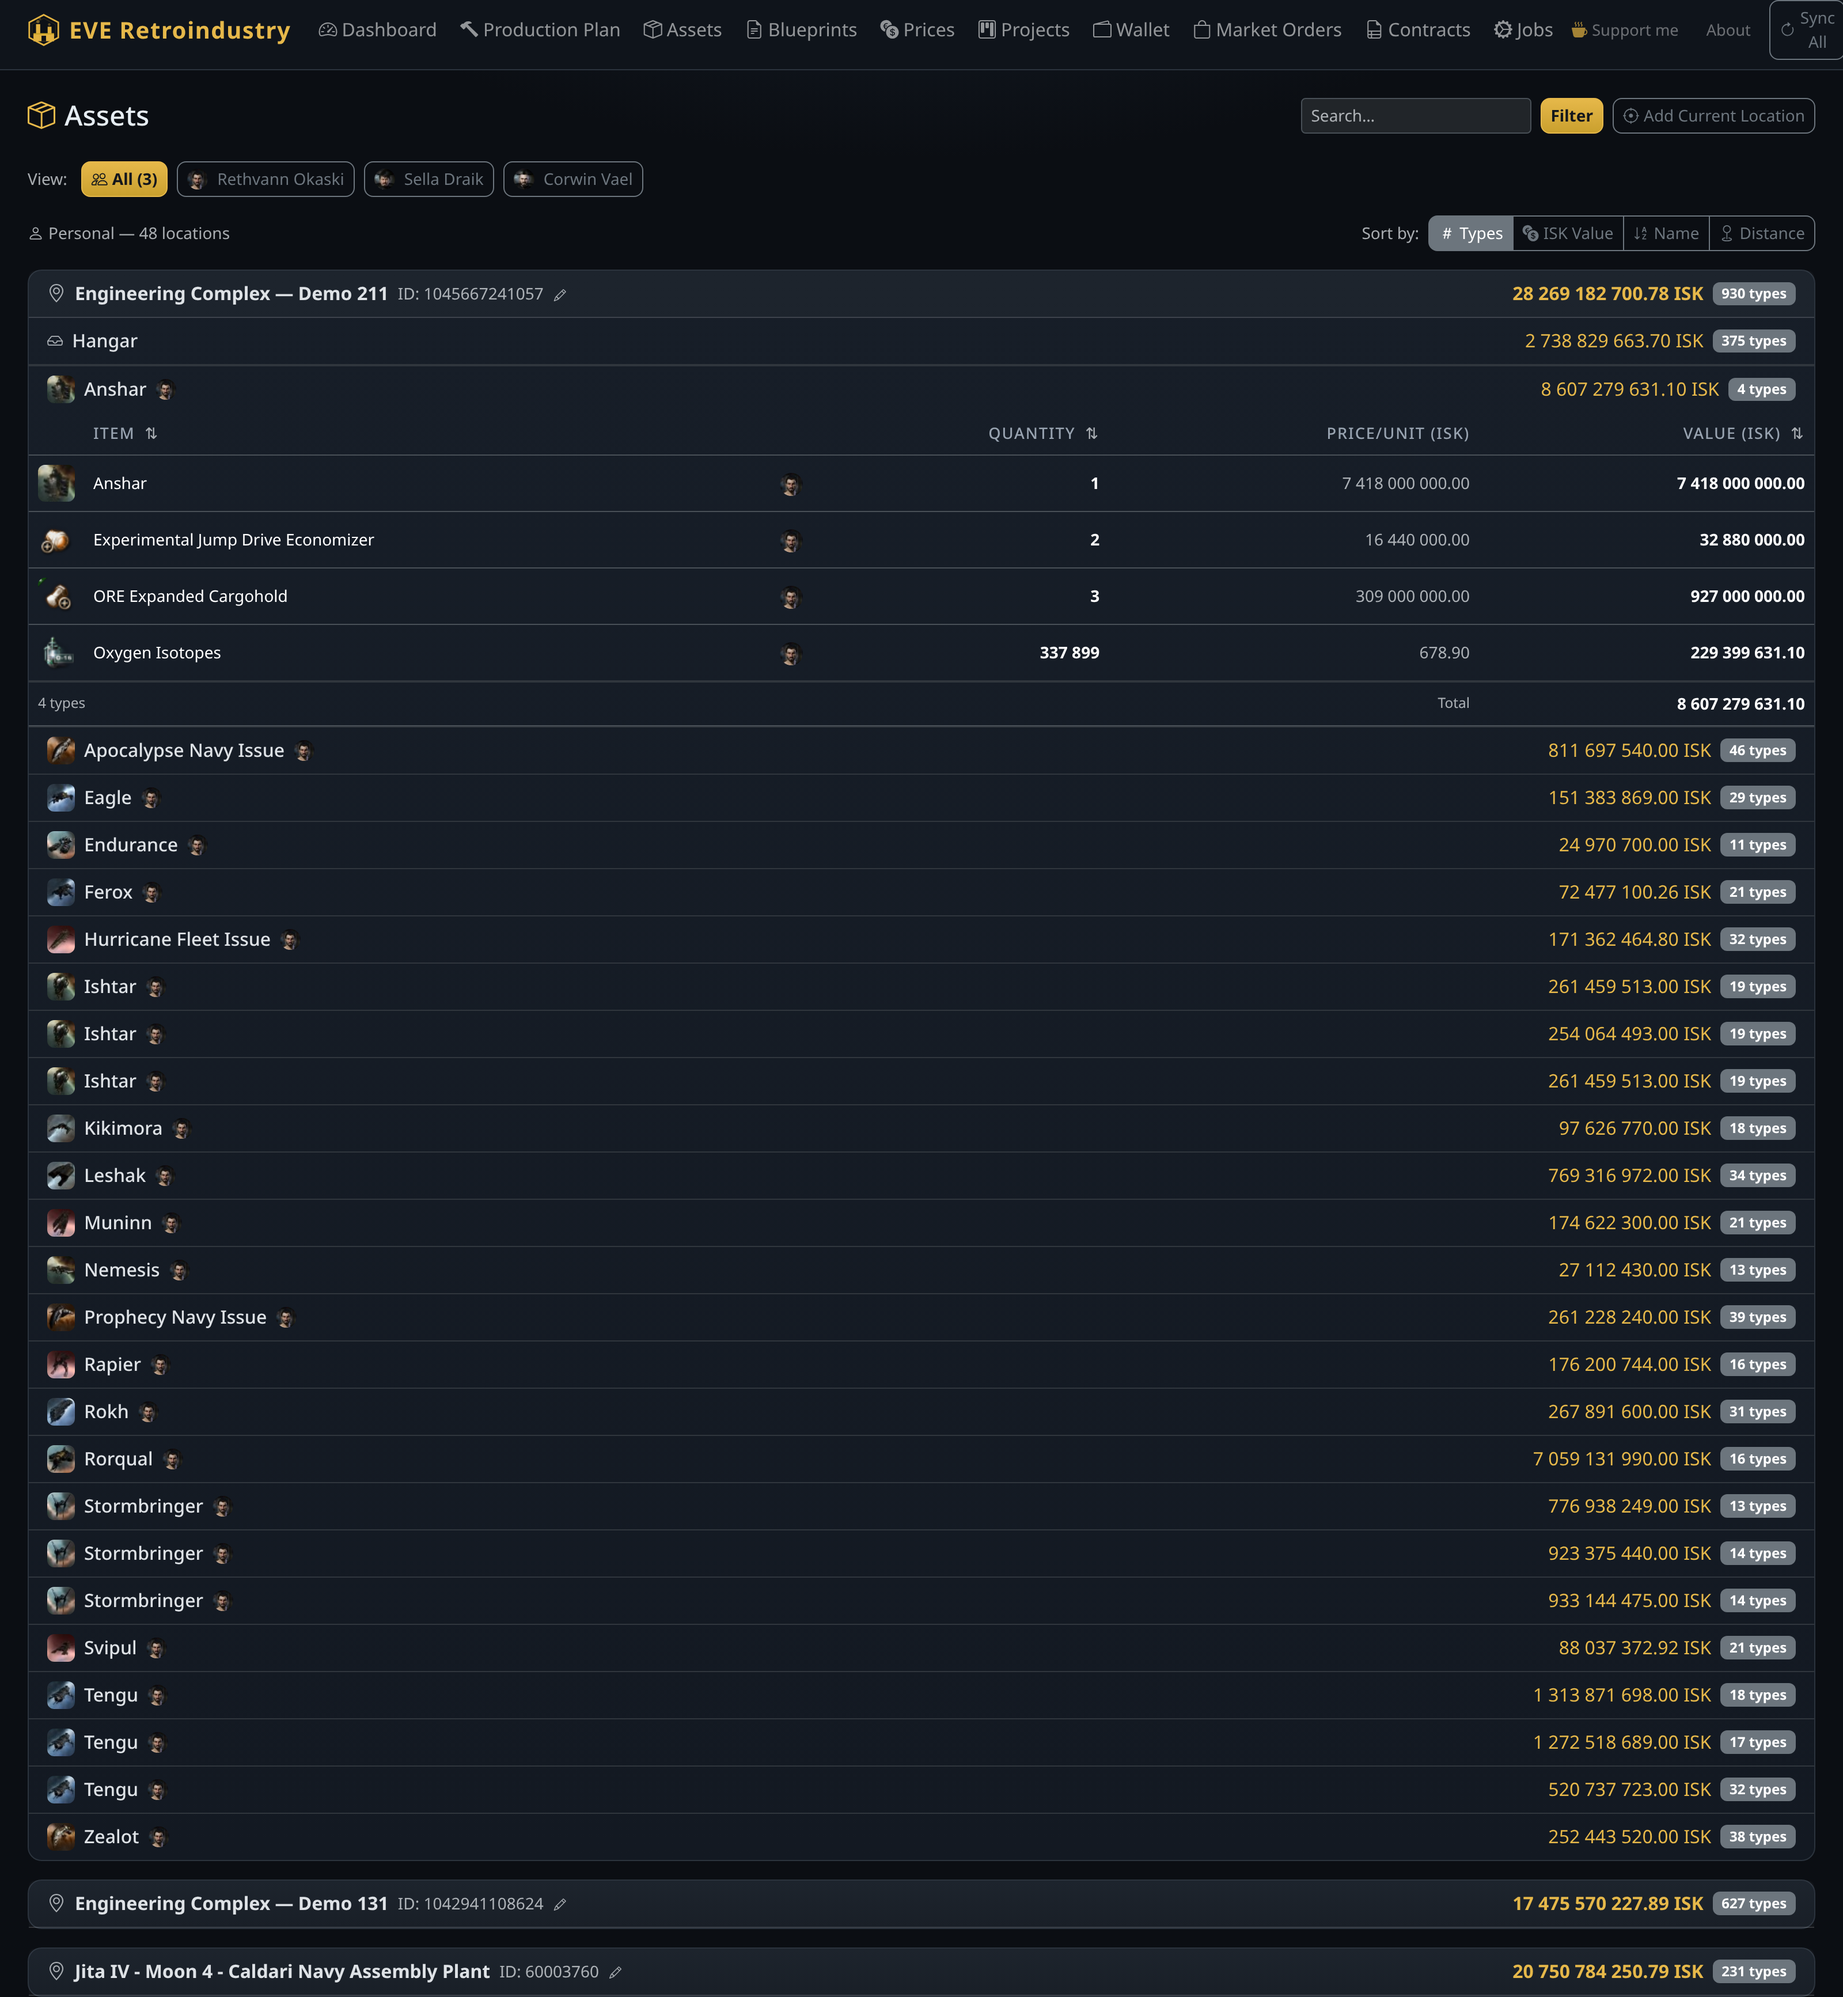
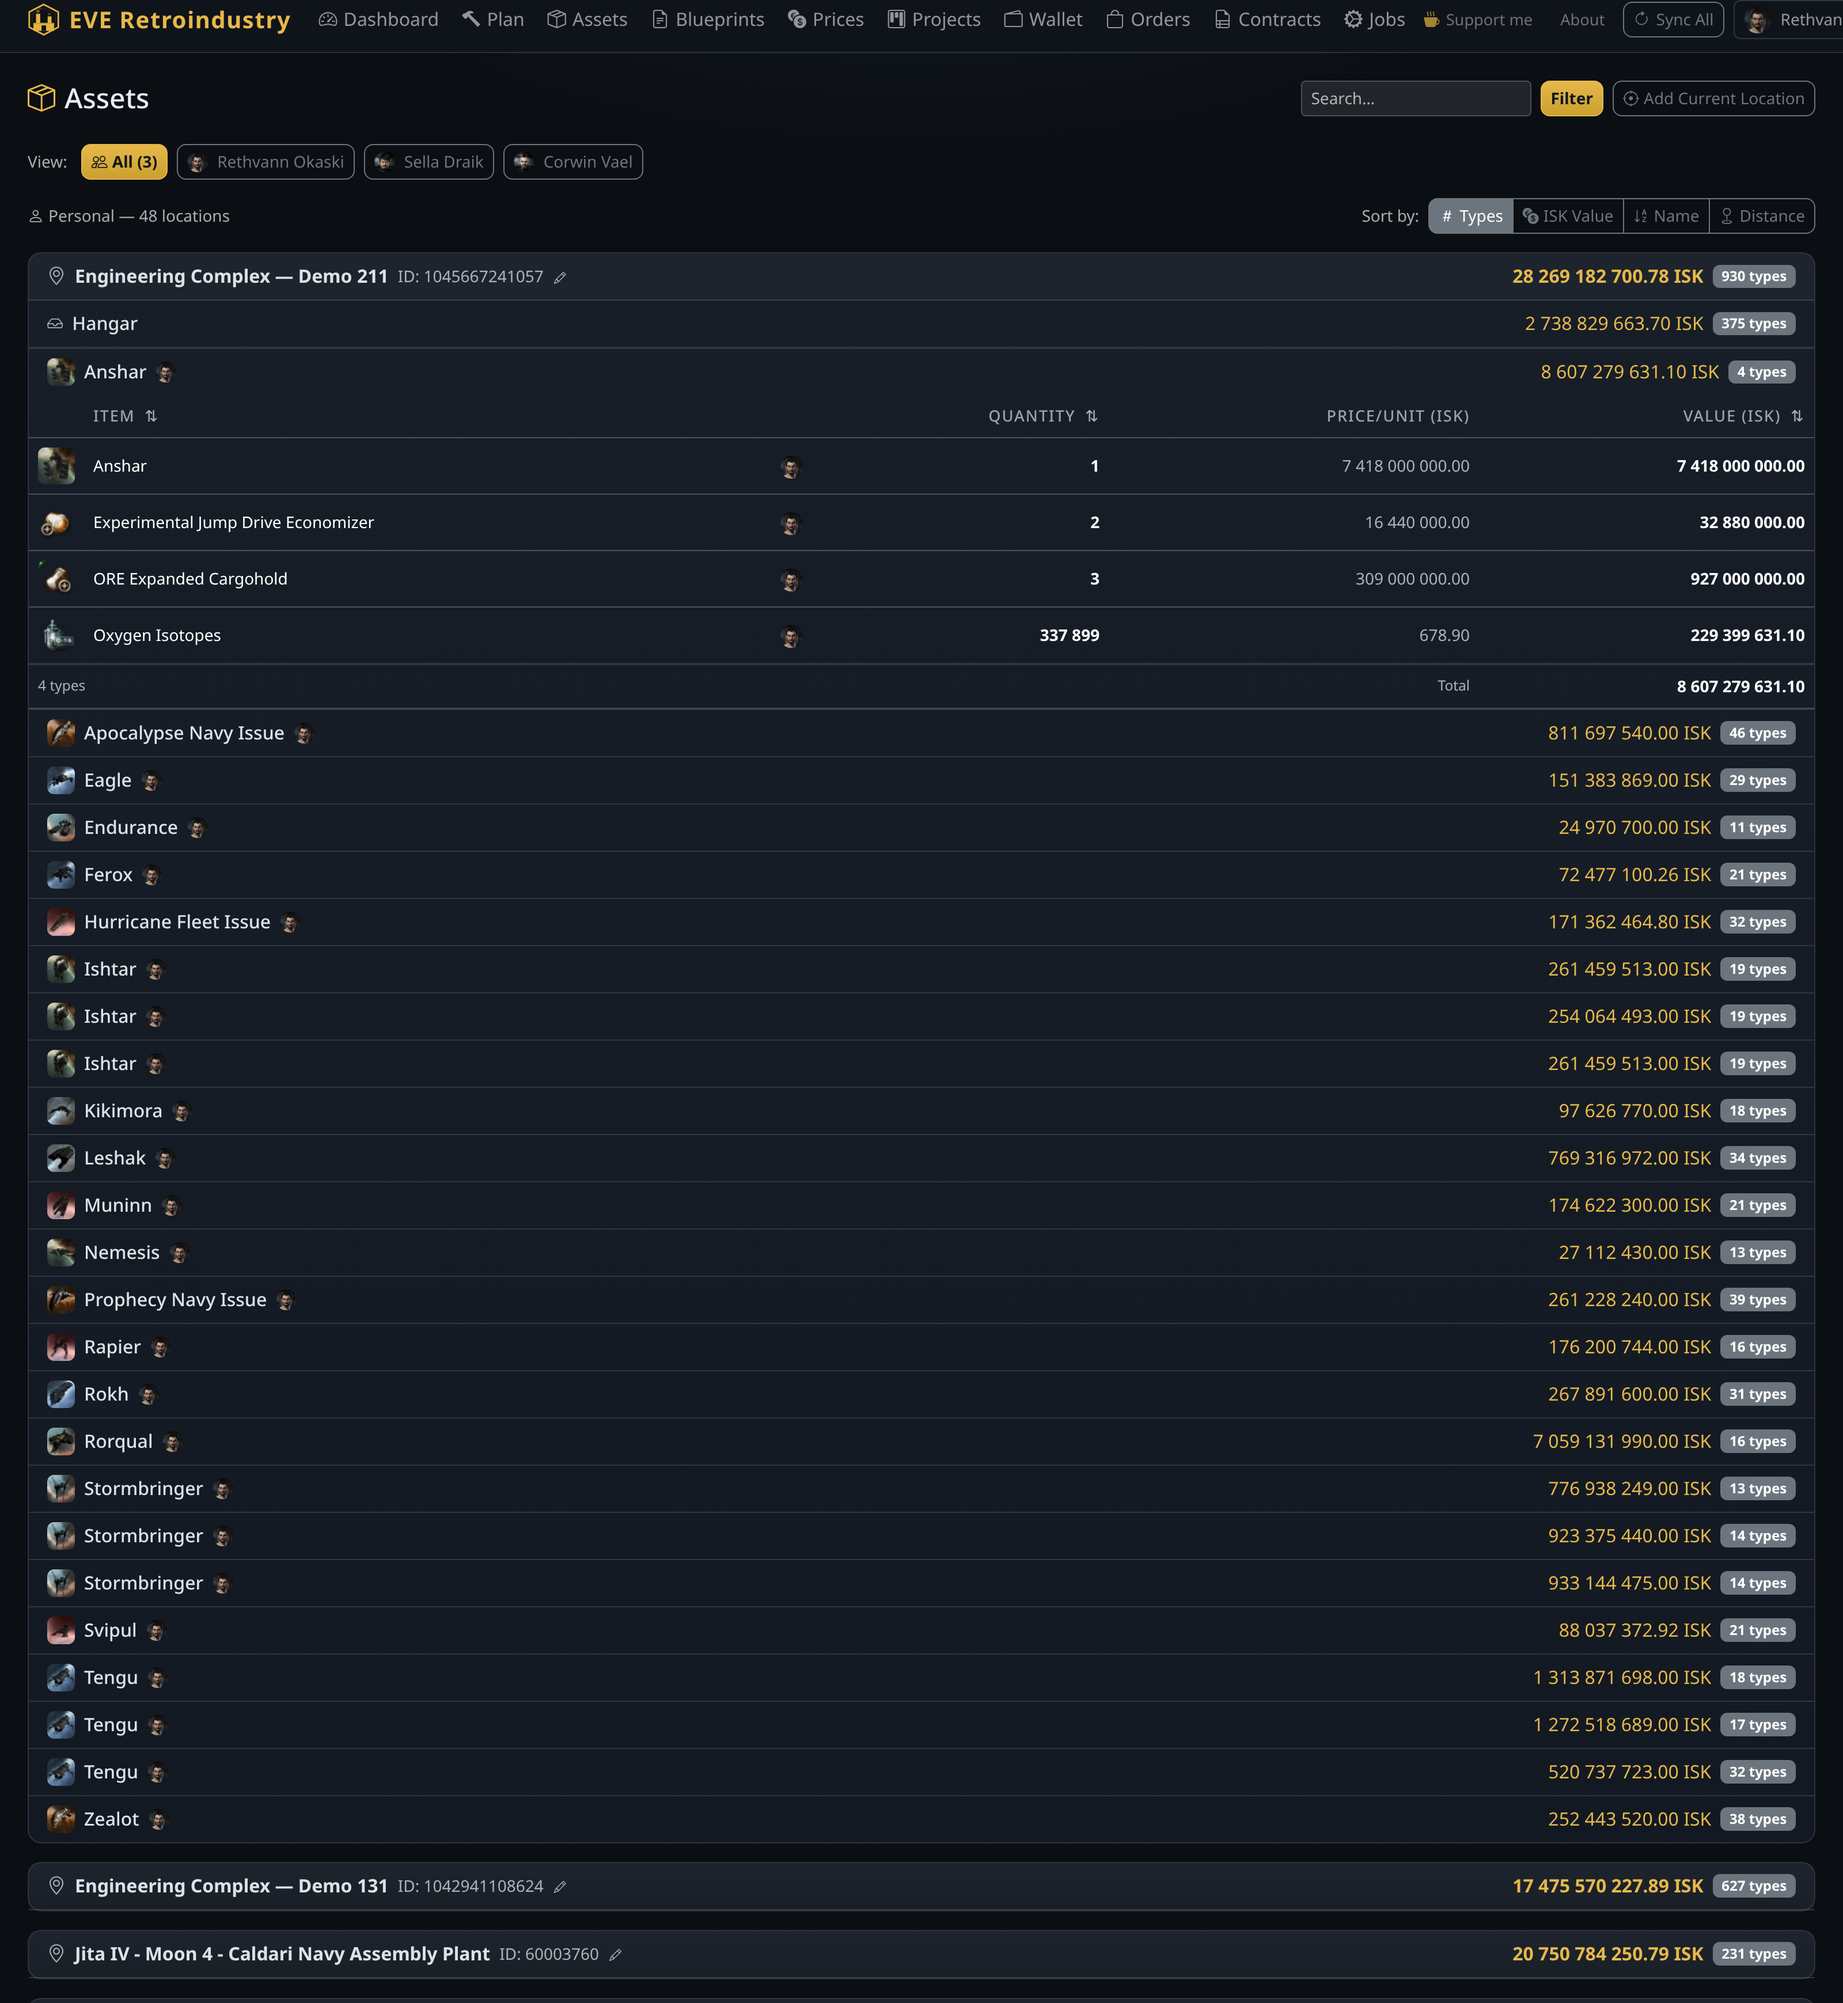
ui: keep 'Support me' / 'Sync All' text labels at wide widths
Making them icon-only was too aggressive — the donate CTA lost its label. They
now use the same responsive .nav-label as the main nav: full text when there's
room (>=1400px), icon-only only when the window is narrow. Also nowrap on
.nav-label so 'Sync All' doesn't break onto two lines in its button.

diff --git a/app/web/templates/base.html b/app/web/templates/base.html
@@ -29,7 +29,7 @@
     /* Keep each nav item (icon + label) on a single line; compact padding so the
        whole row fits without a horizontal scrollbar. */
     .navbar-nav .nav-link { white-space: nowrap; padding-left: .5rem; padding-right: .5rem; }
-    .nav-label { margin-left: .35rem; }
+    .nav-label { margin-left: .35rem; white-space: nowrap; }
     /* Narrow widths → collapse the main nav to icons only (the full name shows
        as a tooltip on hover). Below 992px the navbar switches to the hamburger
        menu where full labels are used, so this only applies in between. */
@@ -162,7 +162,7 @@
         <li class="nav-item">
           <a class="nav-link d-flex align-items-center" href="#" onclick="kofiOpen(event)"
              style="font-size:.85rem;opacity:.7" title="Support me on Ko-fi">
-            <i class="bi bi-cup-hot-fill" style="color:#e3b341"></i>
+            <i class="bi bi-cup-hot-fill" style="color:#e3b341"></i><span class="nav-label">Support me</span>
           </a>
         </li>
         <li class="nav-item">
@@ -178,7 +178,7 @@
         <li class="nav-item">
           <button class="btn btn-sm btn-outline-secondary d-flex align-items-center"
                   onclick="syncAll(this)" title="Sync blueprints, assets, skills & wallet for all characters">
-            <i class="bi bi-arrow-clockwise"></i>
+            <i class="bi bi-arrow-clockwise"></i><span class="nav-label">Sync All</span>
           </button>
         </li>
         <li class="nav-item dropdown">
